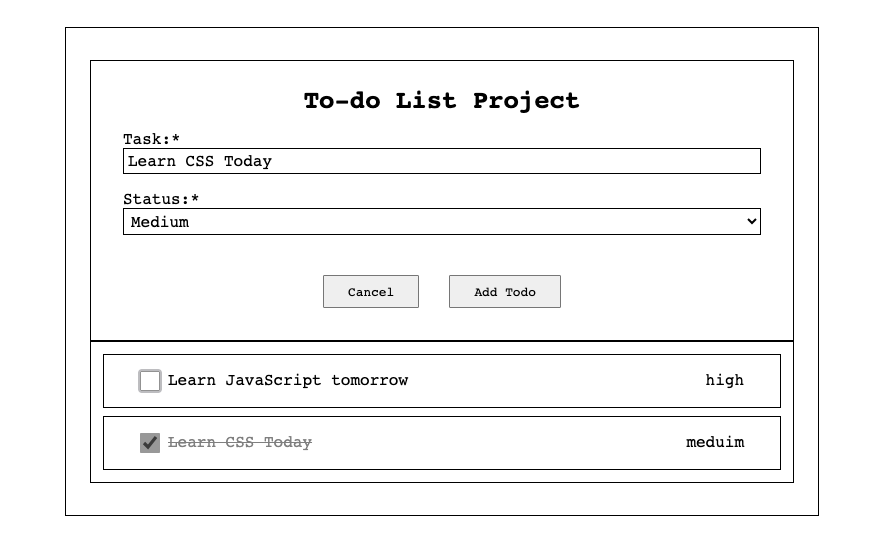
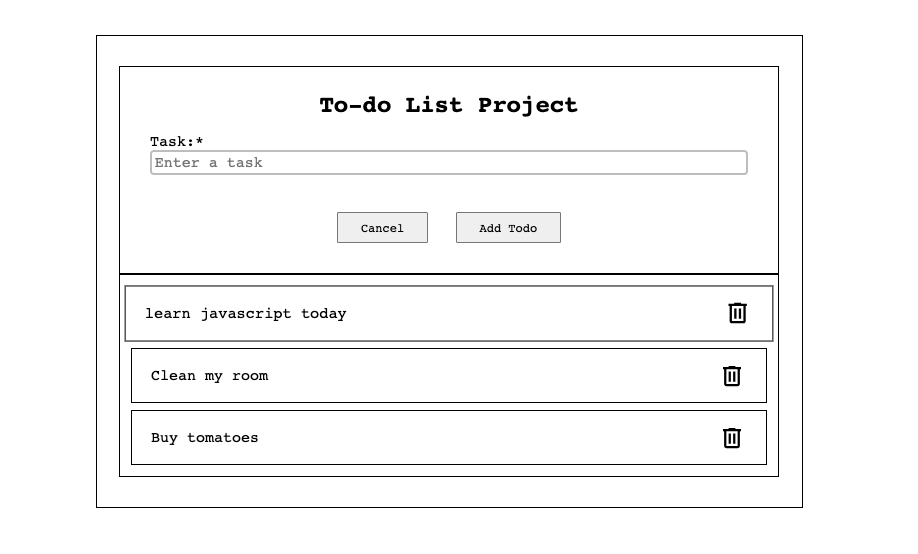
todo app complete

Changed region(s): [[0.0907, 0.0614, 0.8768, 0.9206], [0.3326, 0.1534, 0.6652, 0.2148]]

diff --git a/todo-project/style.css b/todo-project/style.css
@@ -1,76 +1,74 @@
-*{
-    padding: 0;
-    margin: 0;
-    font-family: monospace;
+* {
+  padding: 0;
+  margin: 0;
+  font-family: monospace;
 }
-main{
-    width: 90%;
-    max-width: 880px;
-    margin: 5% auto;
-    border: 1px solid;
-    padding: 40px 30px;
+main {
+  width: 90%;
+  max-width: 880px;
+  margin: 5% auto;
+  border: 1px solid;
+  padding: 40px 30px;
 }
-.formContainer{
-    border: 1px solid;
-    padding: 10px;
+.formContainer {
+  border: 1px solid;
+  padding: 10px;
 }
-form{
-    padding: 20px 30px;
+form {
+  padding: 20px 30px;
 }
-header{
-    text-align: center;
-    font-size: large;
+header {
+  text-align: center;
+  font-size: large;
 }
-.field{
-    display: flex;
-    flex-direction: column;
-    margin-top: 20px;
+.field {
+  display: flex;
+  flex-direction: column;
+  margin-top: 20px;
 }
-label{
-    font-size: x-large;
+label {
+  font-size: x-large;
 }
-input,select{
-    padding: 4px 5px;
-    font-size: 20px;
-    border: 1px solid black;
+input {
+  padding: 4px 5px;
+  font-size: 20px;
+  border: 1px solid black;
 }
-.formBtn{
-    margin: 40px 0 0 0;
-    padding: 10px 0;
-    text-align: center;
+.formBtn {
+  margin: 40px 0 0 0;
+  padding: 10px 0;
+  text-align: center;
 }
-button{
-    font-size: large;
-    padding: 10px 30px ;
-    margin: 0 15px;
+button {
+  font-size: large;
+  padding: 10px 30px;
+  margin: 0 15px;
 }
-.todoListContainer{
-    border: 1px solid;
-    padding: 5px 5px;
+.todoContainer {
+  border: 1px solid;
+  padding: 5px 5px;
 }
-.todo{
-    padding: 20px 45px;
-    display: flex;
-    justify-content: space-between;
-    font-size: x-large;
-    margin-bottom: 5px;
-    margin: 10px;
-    border: 1px solid;
-    transition: 0.3s ease-in-out;
+.todo {
+  padding: 15px 25px;
+  display: flex;
+  justify-content: space-between;
+  align-items: center;
+  font-size: x-large;
+  margin-bottom: 4px;
+  margin: 10px;
+  border: 1px solid;
+  transition: 0.5s ease-in-out;
 }
-.todo:hover{
-    transform: scale(1.02);
+.todo:hover {
+  transform: scale(1.02);
 }
-.todoList{
-    display: flex;
-    gap: 10px;
+.delete {
+  border-radius: 3px 2px;
+  padding: 2px;
+  display: flex;
+  align-items: center;
+  transition: 0.6s ease-in-out;
 }
-.check{
-    width: 25px;
-    height: 25px;
-}
-.under{
-    text-decoration: line-through;
-    font-weight: 200;
-    color: #7f7f7f;
+.delete:hover {
+  background: #9c999929;
 }

diff --git a/todo-project/script.js b/todo-project/script.js
@@ -1,30 +1,28 @@
+const form = document.querySelector("#form");
+const todoContainer = document.querySelector(".todoContainer");
+const generateTodo = (todo) => {
+    const template =  `
+            <div class="todo">
+                <span class="myTodo">${todo}</span>
+                <svg xmlns="http://www.w3.org/2000/svg" class="delete" width="36" height="36" viewBox="0 0 24 24"><path fill="currentColor" d="M7 21q-.825 0-1.412-.587T5 19V6H4V4h5V3h6v1h5v2h-1v13q0 .825-.587 1.413T17 21zM17 6H7v13h10zM9 17h2V8H9zm4 0h2V8h-2zM7 6v13z"/></svg>
 
-const todoLists = document.querySelector(".todoListContainer"); 
-const addTodo = document.querySelector("#form");
-
-addTodo.addEventListener('submit', e => {
-    e.preventDefault();
-    
-    const todoList  = `
-        <div class="todo">
-            <div class="todoList">
-                <input type="checkbox" name="check" class="check" onchange="checkTodo(this)">
-                <span class="myTodo">${task.value}</span>
             </div>
-            <span class="todoStatus">${flag.value}</span>
-        </div>
-    `;
+        `
+    ;
+    todoContainer.innerHTML += template;
+}
 
-    todoLists.innerHTML += todoList;
+form.addEventListener("submit", e => {
+
+    e.preventDefault();
+    const todo = form.task.value.trim();
+
+    generateTodo(todo);
+    form.reset();
 });
 
-function checkTodo(checkbox) {
-    const todoElement = checkbox.closest('.todo');
-    const myTodoElement = todoElement.querySelector('.myTodo');
 
-    if (checkbox.checked) {
-        myTodoElement.classList.add('under');
-    } else {
-        myTodoElement.classList.remove('under');
-    }
-}
+todoContainer.addEventListener('click',  e => {
+    if(e.target.classList.contains('delete')) 
+        e.target.parentElement.remove(); 
+});

diff --git a/todo-project/index.html b/todo-project/index.html
@@ -19,23 +19,13 @@
           <label for="task">Task:<span class="asterics">*</span></label>
           <input type="text" name="task" id="task" placeholder="Enter a task" required />
         </div>
-        <div class="field">
-          <label for="flag">Status:<span class="asterics">*</span></label>
-          <select name="flag" id="flag">
-            <option value="high">High</option>
-            <option value="meduim">Medium</option>
-            <option value="weak">Weak</option>
-          </select>
-        </div>
         <div class="formBtn">
           <button type="reset" class="cancel">Cancel</button>
           <button type="submit" id="addTodo">Add Todo</button>
         </div>
       </form>
     </div>
-    <div class="todoListContainer">
-
-    </div>
+    <div class="todoContainer"></div>
   </main>
 
   <script src="./script.js"></script>
